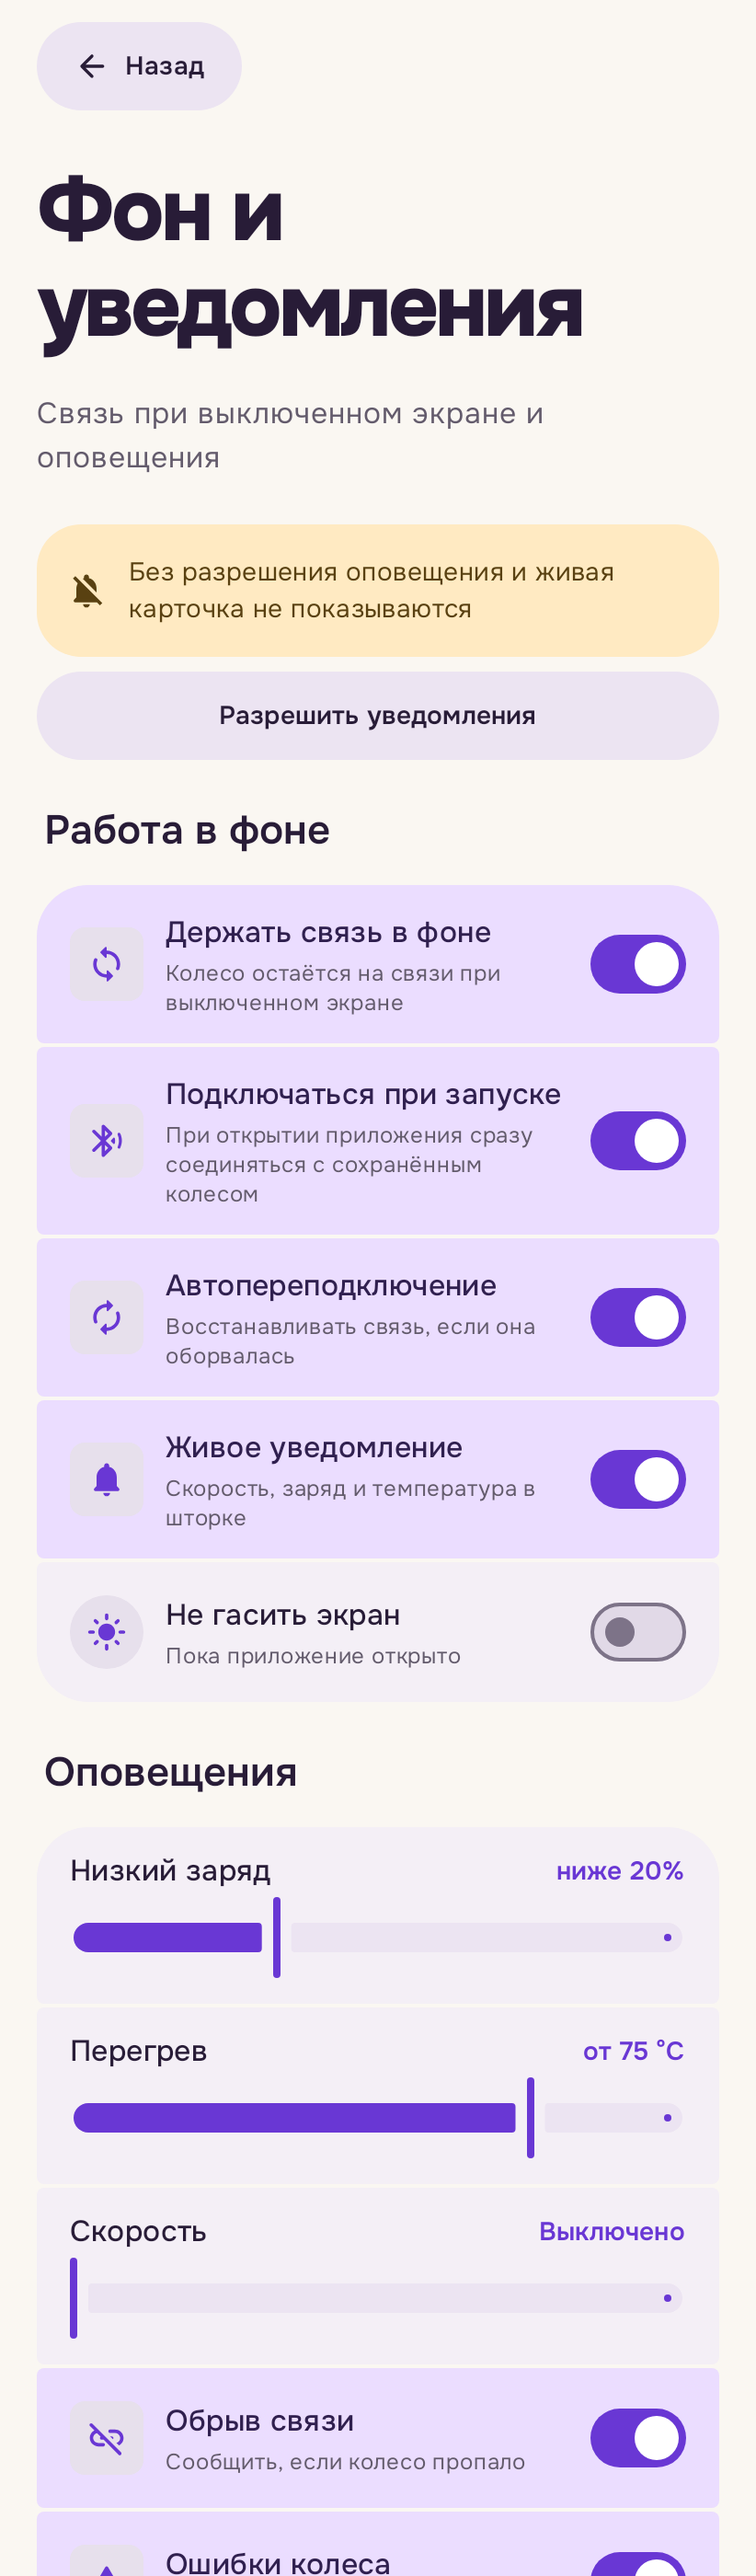
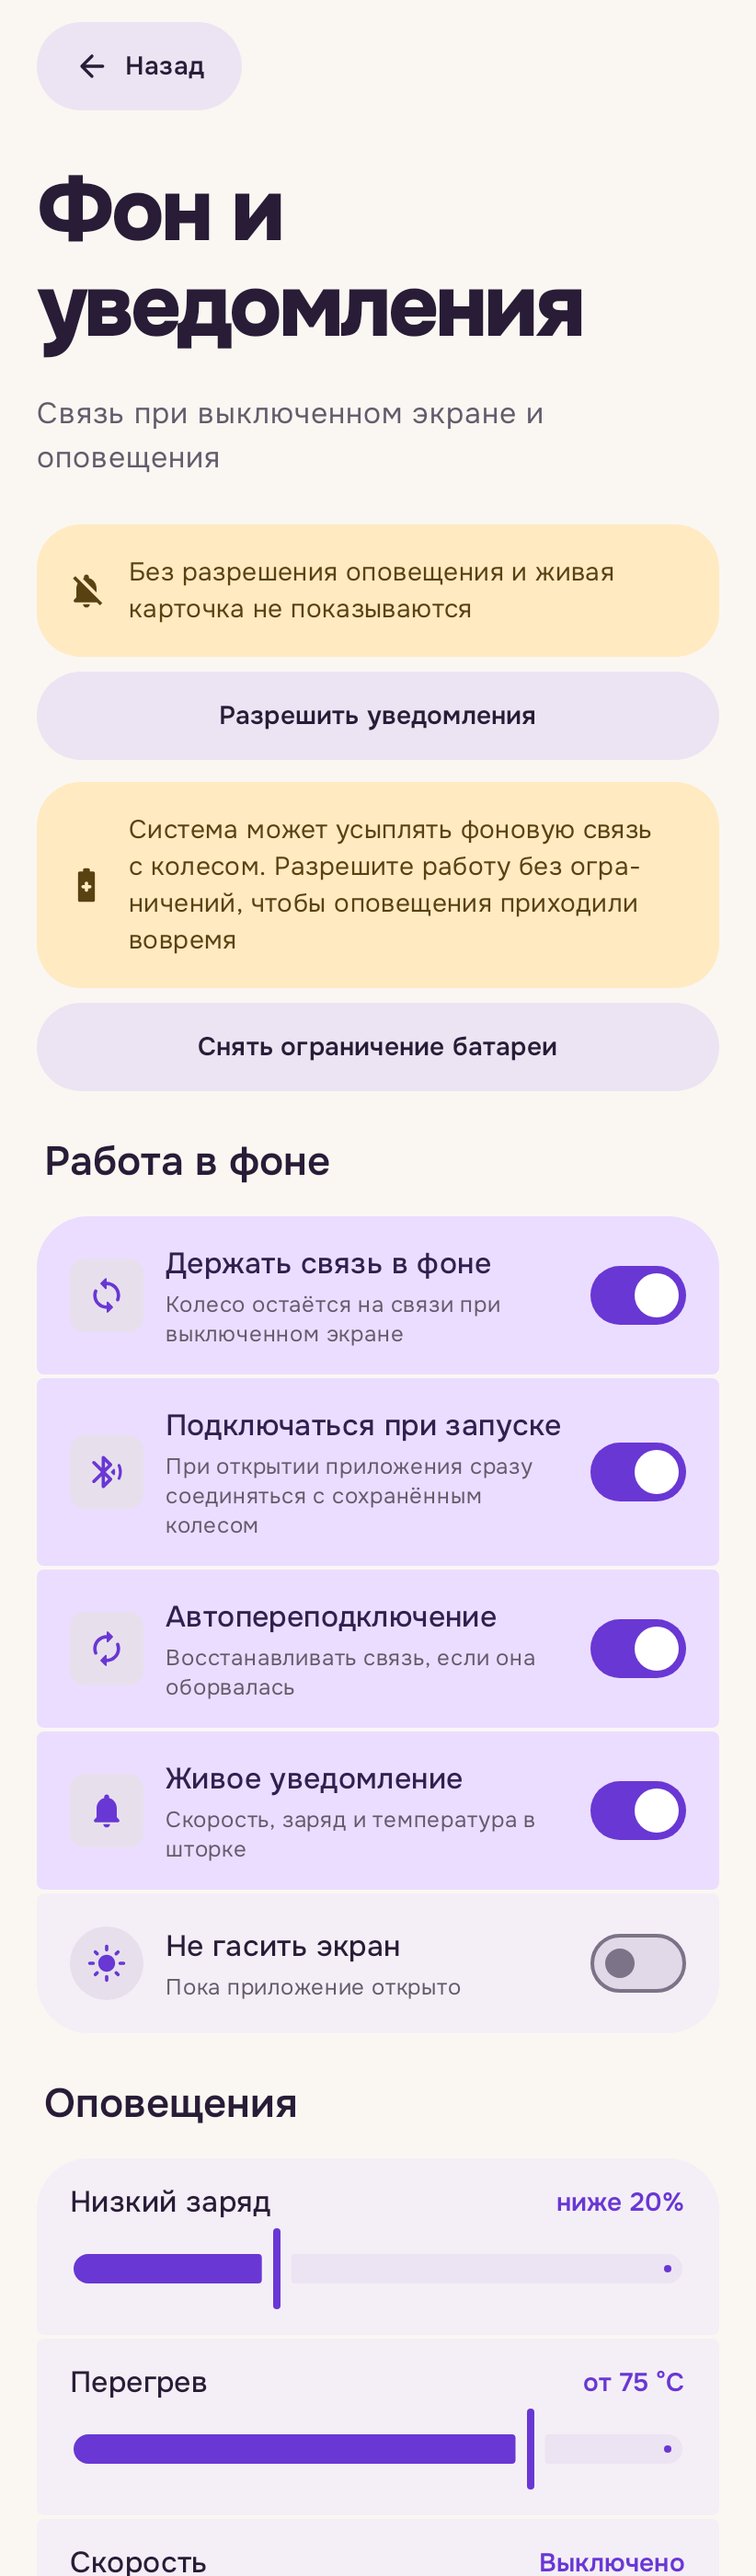
background: ask to lift battery optimization when the background link is on; handoff refresh

diff --git a/app/src/main/java/com/freecyber/ion/MainActivity.kt b/app/src/main/java/com/freecyber/ion/MainActivity.kt
@@ -1,10 +1,14 @@
 package com.freecyber.ion
 
 import android.Manifest
+import android.annotation.SuppressLint
+import android.content.ActivityNotFoundException
 import android.content.Intent
 import android.net.Uri
 import android.os.Build
 import android.os.Bundle
+import android.os.PowerManager
+import android.provider.Settings
 import android.view.WindowManager
 import androidx.activity.ComponentActivity
 import androidx.activity.compose.rememberLauncherForActivityResult
@@ -32,9 +36,13 @@ class MainActivity : ComponentActivity() {
             val background by model.prefs.background.collectAsStateWithLifecycle()
             val trips by model.history.trips.collectAsStateWithLifecycle()
             var notificationsAllowed by remember { mutableStateOf(IonNotifications.canPost(this)) }
+            var batteryUnrestricted by remember { mutableStateOf(batteryUnrestricted()) }
             val dark=systemDark(preference)
             // Permission may change in system settings while we are away.
-            LifecycleResumeEffect(Unit) { notificationsAllowed=IonNotifications.canPost(this@MainActivity); onPauseOrDispose { } }
+            LifecycleResumeEffect(Unit) {
+                notificationsAllowed=IonNotifications.canPost(this@MainActivity); batteryUnrestricted=batteryUnrestricted()
+                onPauseOrDispose { }
+            }
             var pendingDevice by remember { mutableStateOf<WheelDevice?>(null) }
             val notifications=rememberLauncherForActivityResult(ActivityResultContracts.RequestPermission()) {
                 notificationsAllowed=IonNotifications.canPost(this)
@@ -62,14 +70,25 @@ class MainActivity : ComponentActivity() {
                 onDispose { }
             }
             IonTheme(dark) {
-                IonApp(ui,dark,PrefsUi(dashboard,alerts,background,notificationsAllowed,trips),Actions(scan={permitted(null)},connect={permitted(it)},
+                IonApp(ui,dark,PrefsUi(dashboard,alerts,background,notificationsAllowed,batteryUnrestricted,trips),Actions(scan={permitted(null)},connect={permitted(it)},
                     disconnect=model::disconnect,stopScan=model.ble::stopScan,forget=model::forget,
                     readAll=model.ble::readAll,read=model.ble::read,write=model.ble::apply,
-                    theme={model.setDark(!dark)},permissions={startActivity(Intent(android.provider.Settings.ACTION_APPLICATION_DETAILS_SETTINGS,Uri.parse("package:$packageName")))},
+                    theme={model.setDark(!dark)},permissions={startActivity(Intent(Settings.ACTION_APPLICATION_DETAILS_SETTINGS,Uri.parse("package:$packageName")))},
                     setDashboard=model.prefs::setDashboard,setAlerts=model.prefs::setAlerts,setBackground=model.prefs::setBackground,
                     requestNotifications={ if(Build.VERSION.SDK_INT >= 33) askNotifications() },
+                    requestBatteryUnrestricted=::requestBatteryUnrestricted,
                     resetTrip=model::resetTrip,shareTrips={shareTrips(trips)},deleteTrip=model.history::delete,clearTrips=model.history::clear))
             }
+        }
+    }
+    private fun batteryUnrestricted()=getSystemService(PowerManager::class.java)?.isIgnoringBatteryOptimizations(packageName)?:true
+    /** A companion app for a ride-safety device: the direct request is allowed, the settings list is the fallback. */
+    @SuppressLint("BatteryLife")
+    private fun requestBatteryUnrestricted() {
+        val direct=Intent(Settings.ACTION_REQUEST_IGNORE_BATTERY_OPTIMIZATIONS,Uri.parse("package:$packageName"))
+        try { startActivity(direct) }
+        catch(_: ActivityNotFoundException) {
+            runCatching { startActivity(Intent(Settings.ACTION_IGNORE_BATTERY_OPTIMIZATION_SETTINGS)) }
         }
     }
     private fun shareTrips(trips: List<TripSummary>) {

diff --git a/app/src/test/java/com/freecyber/ion/ScreenshotTest.kt b/app/src/test/java/com/freecyber/ion/ScreenshotTest.kt
@@ -75,7 +75,7 @@ class ScreenshotTest {
     @Config(qualifiers = "en-w411dp-h1400dp-xhdpi")
     @Test fun settingsEnglish() = shot("background_en", dark = true) { BackgroundScreen(PrefsUi(notificationsAllowed = false), Actions(), {}) }
     @Test fun dashboardEditor() = shot("dashboard_editor") { DashboardEditorScreen(DashboardLayout.DEFAULT, {}, {}) }
-    @Test fun background() = shot("background") { BackgroundScreen(PrefsUi(notificationsAllowed = false), Actions(), {}) }
+    @Test fun background() = shot("background") { BackgroundScreen(PrefsUi(notificationsAllowed = false, batteryUnrestricted = false), Actions(), {}) }
     @Test fun tripsList() = shot("trips") { TripsScreen(trips, Actions(), {}) }
     @Test fun tripsEmpty() = shot("trips_empty", dark = true) { TripsScreen(emptyList(), Actions(), {}) }
     @Test fun settings() = shot("settings") { SettingsScreen({}, {}, {}, {}, {}) }

diff --git a/app/src/main/java/com/freecyber/ion/FeatureScreens.kt b/app/src/main/java/com/freecyber/ion/FeatureScreens.kt
@@ -127,6 +127,12 @@ internal val DashTile.icon: ImageVector get() = when(this) {
                 ApplyButton(stringResource(R.string.notif_permission),true,actions.requestNotifications)
             }
         }
+        if(!prefs.batteryUnrestricted && (bg.keepAlive || bg.autoReconnect)) item(key="battery",contentType="banner") {
+            Column(verticalArrangement=Arrangement.spacedBy(8.dp)) {
+                Banner(stringResource(R.string.battery_unrestricted_hint),Icons.Rounded.BatterySaver,warning=true)
+                ApplyButton(stringResource(R.string.battery_unrestricted),true,actions.requestBatteryUnrestricted)
+            }
+        }
         item(key="bg-title",contentType="section") {SectionHeader(stringResource(R.string.bg_section))}
         item(key="bg",contentType="group") {
             GroupColumn {

diff --git a/app/src/main/java/com/freecyber/ion/Actions.kt b/app/src/main/java/com/freecyber/ion/Actions.kt
@@ -9,6 +9,7 @@ internal data class Actions(
     val setAlerts: (AlertConfig) -> Unit = {},
     val setBackground: (BackgroundConfig) -> Unit = {},
     val requestNotifications: () -> Unit = {},
+    val requestBatteryUnrestricted: () -> Unit = {},
     val resetTrip: () -> Unit = {},
     val shareTrips: () -> Unit = {},
     val deleteTrip: (TripSummary) -> Unit = {},
@@ -21,5 +22,7 @@ internal data class PrefsUi(
     val alerts: AlertConfig = AlertConfig(),
     val background: BackgroundConfig = BackgroundConfig(),
     val notificationsAllowed: Boolean = true,
+    /** Doze exemption; without it the background link may be cut on some firmwares. */
+    val batteryUnrestricted: Boolean = true,
     val trips: List<TripSummary> = emptyList(),
 )

diff --git a/docs/ai-handoff.md b/docs/ai-handoff.md
@@ -18,11 +18,14 @@
 | Уведомления (live / alerts / link) + чип в статус-баре Android 16 | готово, NotificationTest | `IonNotifications.kt`, `WheelErrors.kt` |
 | Оповещения с гистерезисом + голос (TTS) | готово | `AlertEngine.kt`, `VoiceAnnouncer.kt`, `BatteryStepper` |
 | Статистика и история поездок, CSV, checkpoint при смерти процесса | готово | `TripRecorder.kt`, `TripHistory.kt`, `TripsScreen.kt` |
-| Виджет (Glance) | готово | `IonWidget.kt`, `WidgetMapping.kt` |
+| Виджет (Glance): последние известные цифры, полоска заряда, превью | готово | `IonWidget.kt`, `WidgetMapping.kt`, `WidgetSnapshot` |
+| Запрос снятия оптимизации батареи (Doze) | готово | `MainActivity.kt`, `BackgroundScreen` |
+| Локализация RU/EN + выбор языка приложения (localeConfig) | готово (кроме подписей диагностики в `:core`) | `res/values-en/`, `res/xml/locales_config.xml` |
+| Доступность: fontScale 1.5, переносы, FlowRow | готово, скриншоты | `Theme.kt`, `ScreenshotTest.kt` |
 | Quick Settings tile | готово | `IonTileService.kt` |
 | Модульный экран поездки + редактор | готово | `Dashboard.kt`, `RideScreen.kt`, `FeatureScreens.kt` |
 | Плитка «График» (скорость/мощность за 6 мин) | готово | `SampleBuffer.kt`, `ChartTile.kt` |
-| Скриншот-тесты (Robolectric + Roborazzi) | 10 экранов | `ScreenshotTest.kt`, `docs/screenshots/` |
+| Скриншот-тесты (Robolectric + Roborazzi) | 14 снимков (RU/EN, светлая/тёмная, крупный шрифт) | `ScreenshotTest.kt`, `docs/screenshots/` |
 | CI | GitHub Actions | `.github/workflows/android.yml` |
 
 ## Сборка
@@ -30,7 +33,7 @@
 ```
 ./gradlew :core:test :app:testDebugUnitTest assembleDebug
 ```
-На машине с 4 ГБ RAM нужен `~/.gradle/gradle.properties` с `org.gradle.jvmargs=-Xmx1800m` и `kotlin.compiler.execution.strategy=in-process`. Скриншоты появляются в `app/build/outputs/roborazzi/`.
+На машине с 4 ГБ RAM нужен `~/.gradle/gradle.properties` с `org.gradle.jvmargs=-Xmx1800m` и `kotlin.compiler.execution.strategy=in-process`. Скриншоты появляются в `app/build/outputs/roborazzi/`. 82 теста. `lintDebug` запускать **отдельно** от Robolectric-тестов (иначе OOM на 4 ГБ). Lint: 0 ошибок.
 
 ## Риски / что проверить на телефоне
 
@@ -38,8 +41,9 @@
 2. Фара в уведомлении/виджете пишет только при `safeWrite` (стоянка, проверенное HT).
 3. Авто-переподключение не срабатывает после ручного «Отключить» и «Забыть».
 4. Wake lock держится только пока приходят данные (продление на 2 мин) — проверить расход батареи телефона.
-5. TTS: если на телефоне нет русского голоса, используется системный.
+5. TTS: если на телефоне нет голоса нужного языка, используется системный.
+6. Баннер «Снять ограничение батареи» — показывается, если включена фоновая связь/переподключение, а приложение под Doze-оптимизацией; проверить диалог `ACTION_REQUEST_IGNORE_BATTERY_OPTIMIZATIONS` на MIUI/One UI.
 
 ## Бэклог
 
-EN-локализация (и вынос захардкоженных строк из BLE-слоя), второй вариант виджета, ландшафт/планшет, вибро-оповещения, устаревание данных в виджете, GPX/трек, тесты на fontScale 1.5, вынос логики `WheelMonitor` в `:core`.
+локализация подписей диагностики (`Protocol.kt`, `WheelErrors.kt`), второй вариант виджета, ландшафт/планшет, вибро-оповещения, GPX/трек, вынос логики `WheelMonitor` в `:core`.

diff --git a/docs/ai-rolling-handoff.md b/docs/ai-rolling-handoff.md
@@ -103,3 +103,10 @@
 - Не переведено (осознанно): подписи полей диагностики и описания команд в `:core` `Protocol.kt` и названия ошибок в `WheelErrors.kt` — нужен слой строк для чистого Kotlin. `androidTest/UiVerificationTest` ищет русские тексты — запускать на русскоязычном эмуляторе.
 - Инфраструктура: на машине с 4 ГБ без swap `lintDebug` вместе с Robolectric-тестами в одном запуске вызывает OOM-killer (умирает Gradle-демон и рвётся MCP-сессия) — lint запускать отдельно. Скриншотов в `docs/screenshots/` теперь 14.
 - Язык приложения: `android:localeConfig` (`res/xml/locales_config.xml`: ru, en) — на Android 13+ в настройках системы можно выбрать язык Ion отдельно от системного.
+
+## Сессия 1 — оптимизация батареи
+
+- Многие прошивки (MIUI, One UI) усыпляют фоновый BLE даже при foreground-сервисе. В «Фон и уведомления» появился баннер «Система может усыплять фоновую связь…» + кнопка «Снять ограничение батареи» — показывается, только если включены фоновая связь или авто-переподключение и `PowerManager.isIgnoringBatteryOptimizations` = false; состояние перечитывается в `LifecycleResumeEffect`.
+- Кнопка открывает системный диалог `ACTION_REQUEST_IGNORE_BATTERY_OPTIMIZATIONS` (разрешение `REQUEST_IGNORE_BATTERY_OPTIMIZATIONS`; приложение-компаньон устройства безопасности), запасной путь — список `ACTION_IGNORE_BATTERY_OPTIMIZATION_SETTINGS`.
+- `PrefsUi.batteryUnrestricted`, `Actions.requestBatteryUnrestricted`; строки RU/EN; снимок `background.png` обновлён. Сборка/тесты зелёные, lint 0 ошибок.
+- `docs/ai-handoff.md` актуализирован (виджет, i18n, a11y, батарея, 82 теста, 14 снимков, OOM-заметка).
